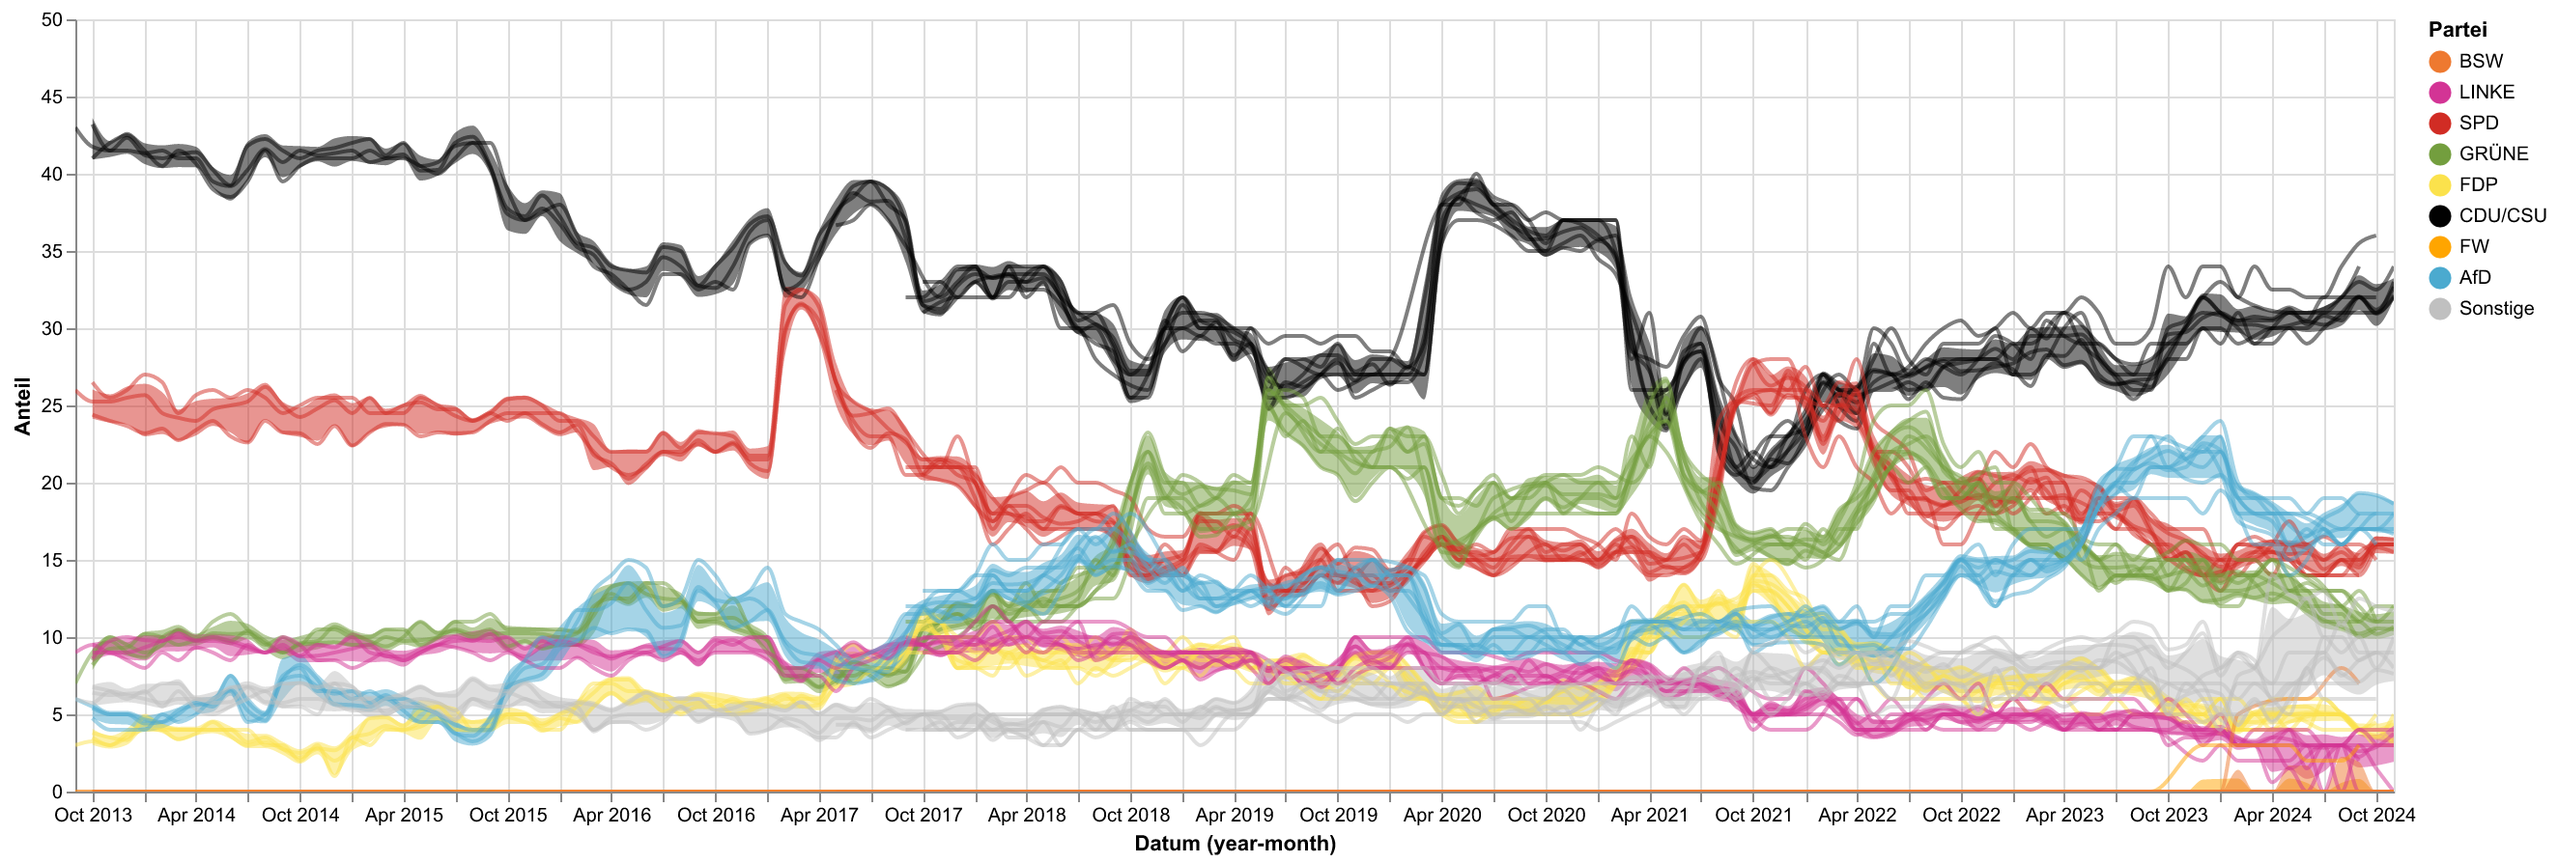
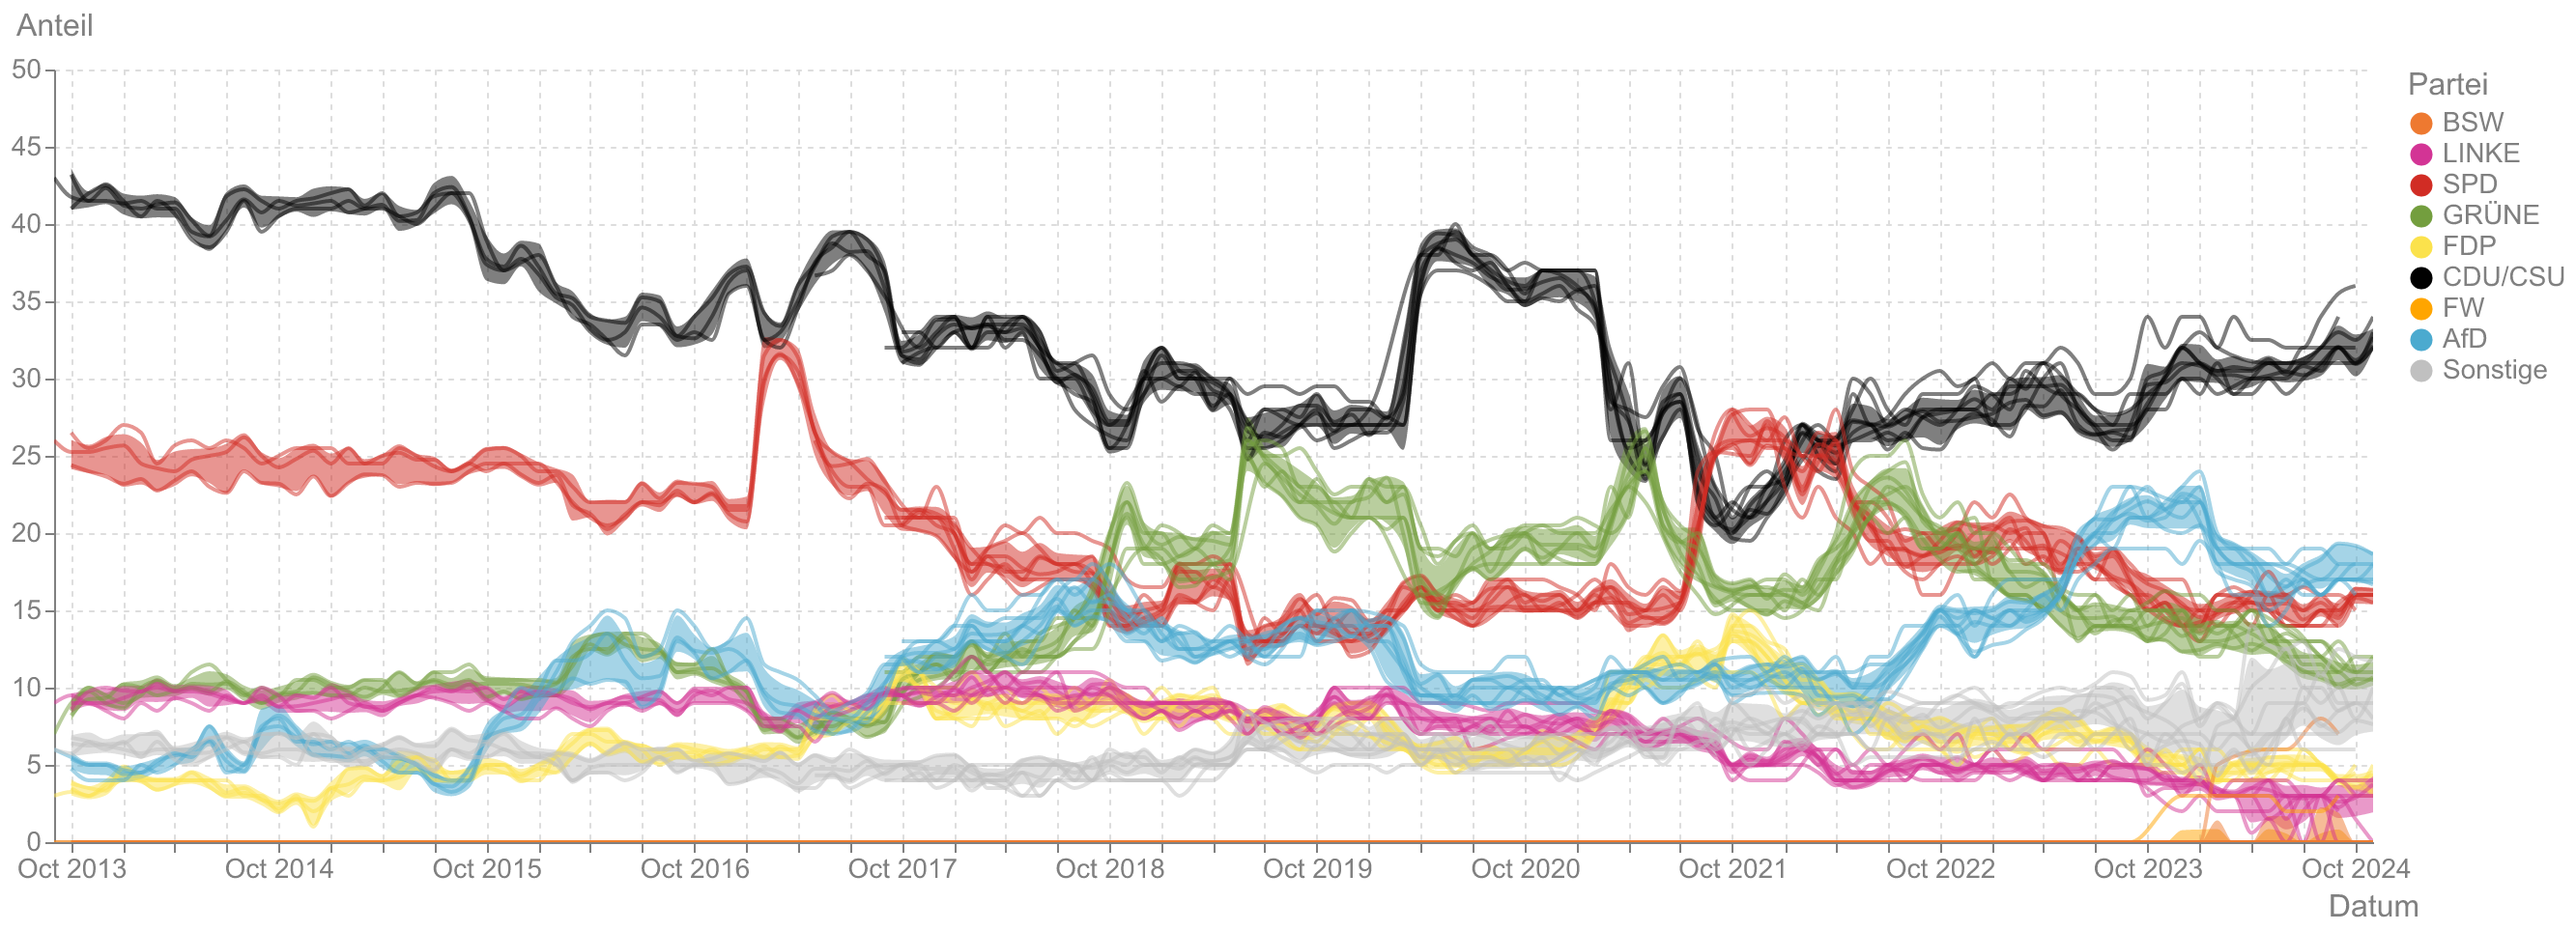
Update plot.

diff --git a/dawum_crawl/plotter.py b/dawum_crawl/plotter.py
@@ -1,7 +1,19 @@
+import json
+
 import altair as alt
 import polars as pl
 
+
+# https://gist.githubusercontent.com/thomascamminady/c5da0b7acb41faf6abd6c99aff10e144/raw/f2b074e2e3945c0102eceb4983eb998da1432d44/theme.json
+def loader():
+    with open("dawum_crawl/theme.json") as f:
+        return json.load(f)
+
+
 alt.data_transformers.disable_max_rows()
+alt.renderers.enable("browser")
+alt.themes.register("my_theme", loader)
+alt.themes.enable("my_theme")
 
 
 class Plotter:
@@ -29,7 +41,7 @@ class Plotter:
             # .mark_line(interpolate="monotone")
             # .mark_point(filled=True, opacity=0.1)
             .encode(
-                x=alt.X(shorthand="yearmonth(Datum):T"),
+                x=alt.X(shorthand="yearmonth(Datum):T").title("Datum"),
                 y=alt.Y("mean(Anteil):Q").scale(domain=[0, 50]),
                 color=alt.Color("Partei:N")
                 .scale(
